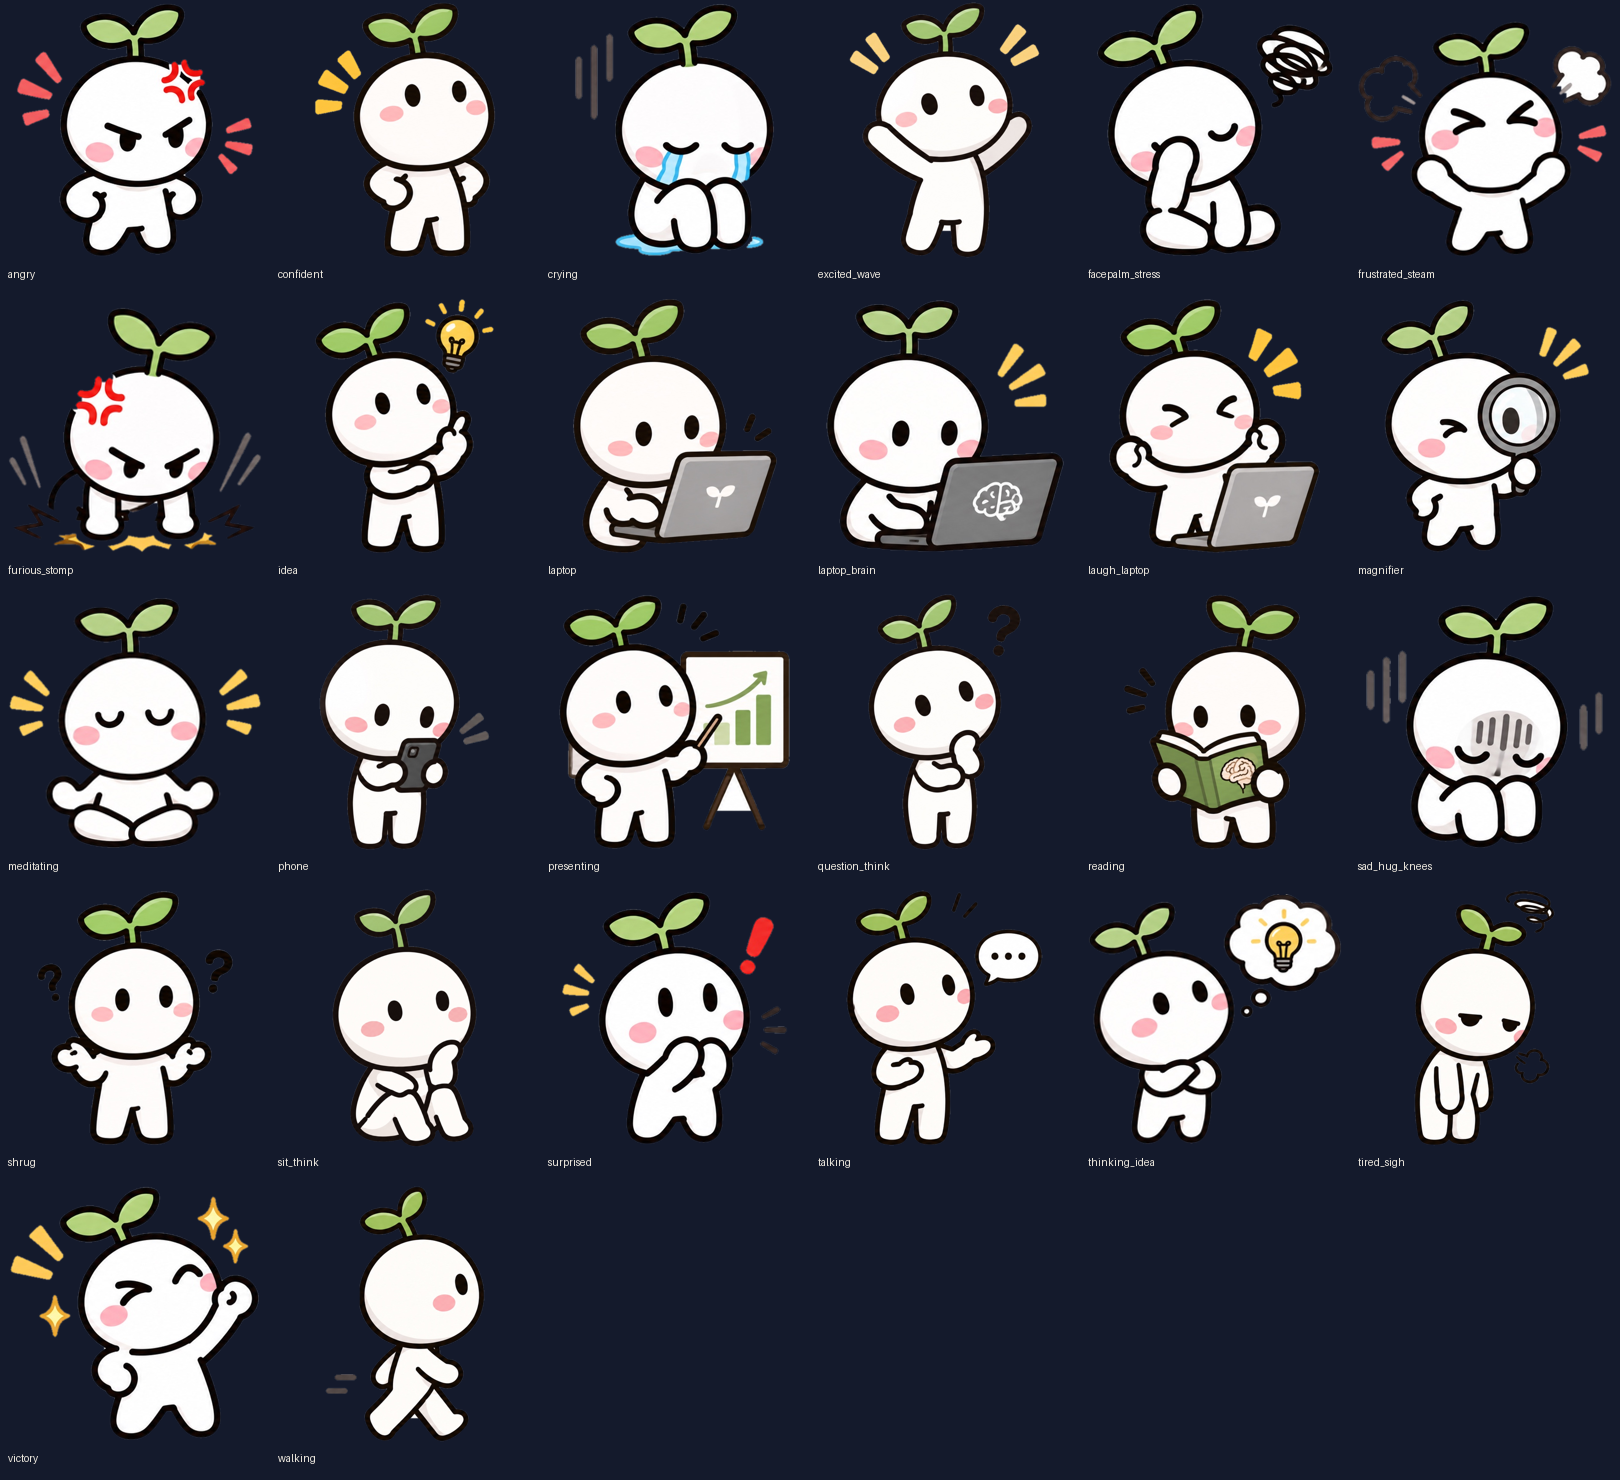
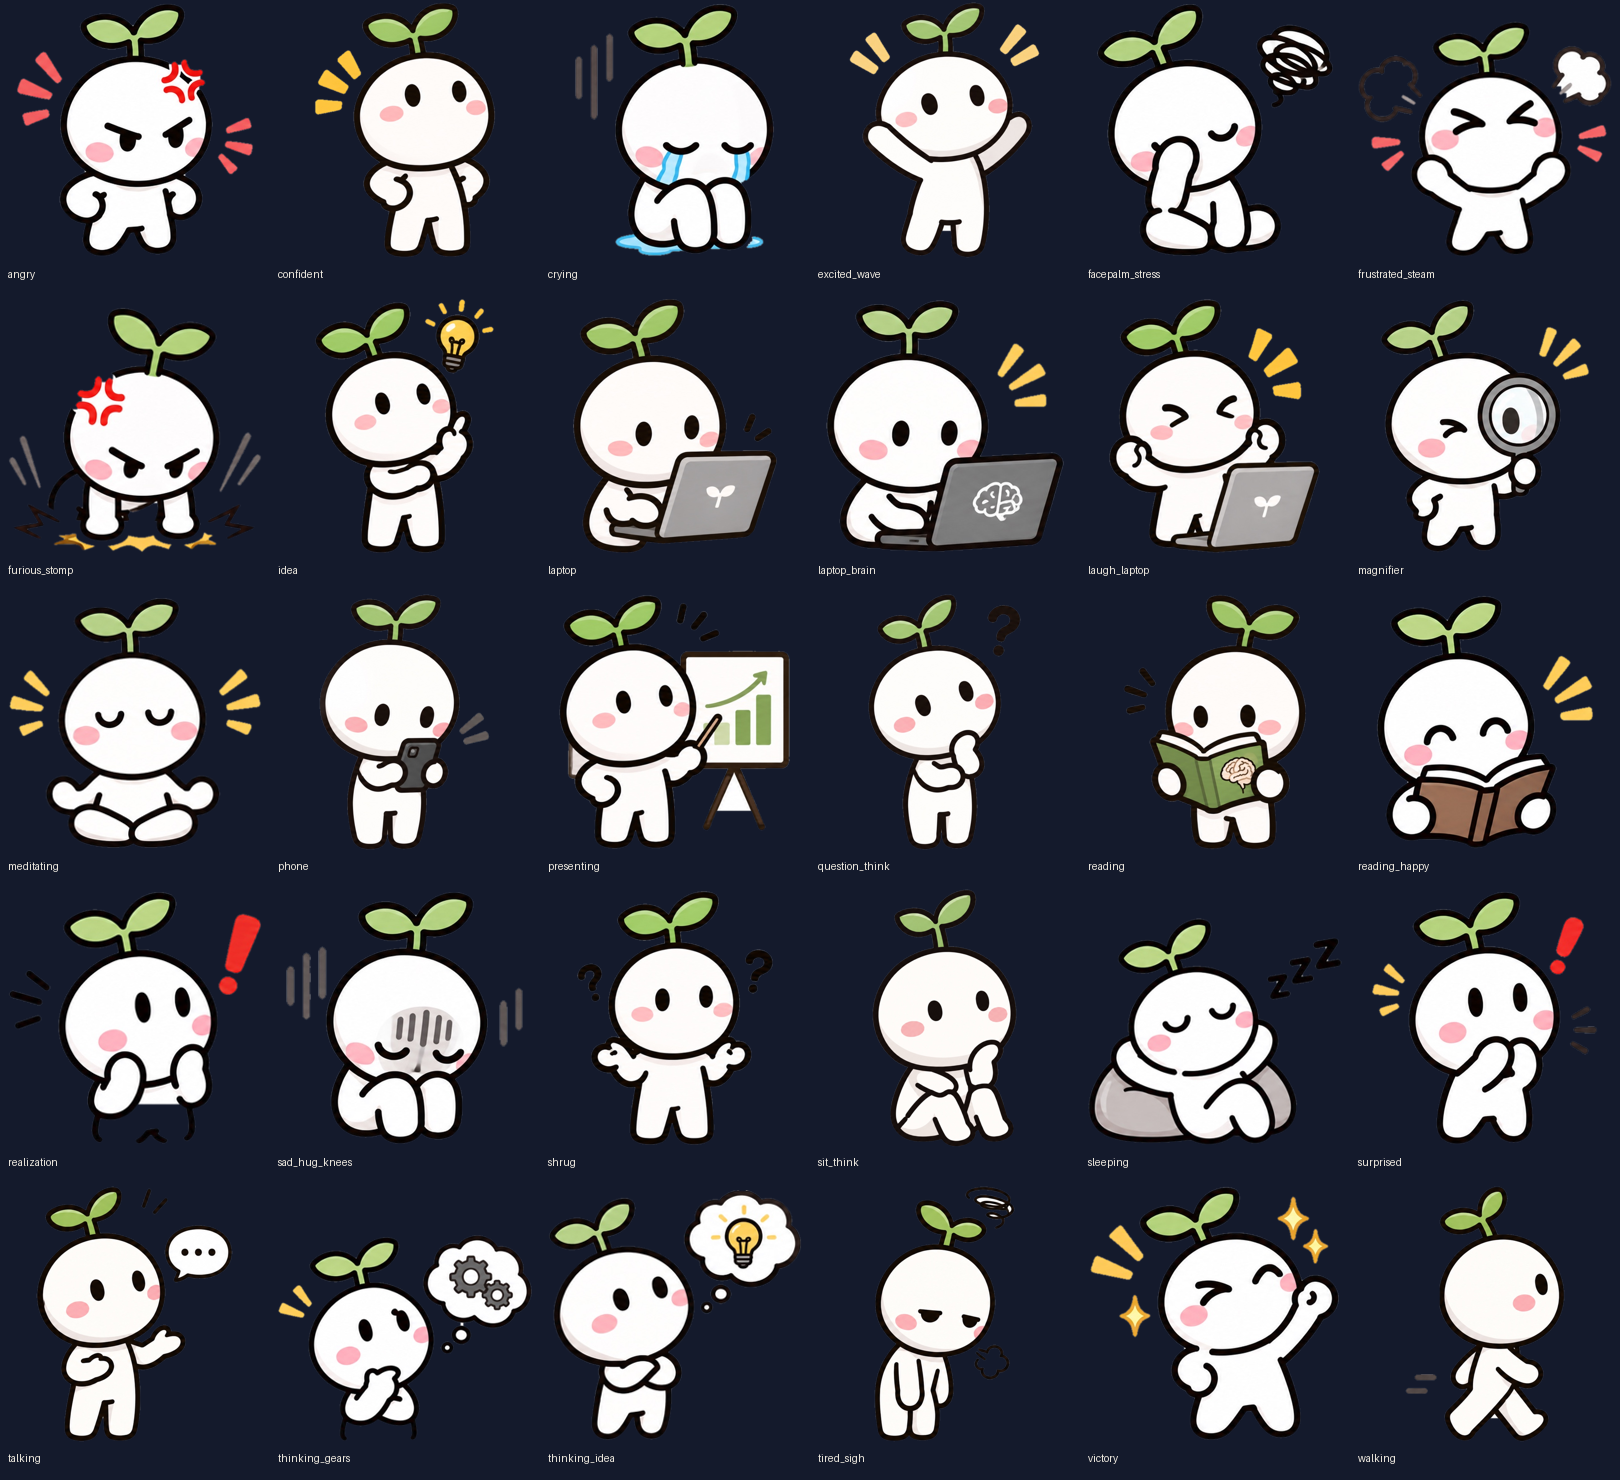
Add 4 poses: thinking_gears, reading_happy, realization, sleeping
Claude-Session: https://claude.ai/code/session_01Jkn9nKkGnE2sXbQewNGyZV

diff --git a/pilots/poses/README.md b/pilots/poses/README.md
@@ -31,6 +31,10 @@
 | furious_stomp | в ярости топает ногами |
 | crying | плачет, лужица слёз |
 | victory | победа, кулак вверх, искры |
+| thinking_gears | размышляет, облачко с шестерёнками (как работает мозг) |
+| reading_happy | с радостью читает книгу |
+| realization | озарение/«ой!», руки у лица, «!» |
+| sleeping | спит на камне, «zzz» (сон, отдых, лень) |
 
 Правило: Майло не анимируется кодом — только смена поз + лёгкий эффект речи (покачивание, «дыхание»,
 подпрыгивание на фразе, субтитры). Не хватает поз/локаций — попросить пользователя.
